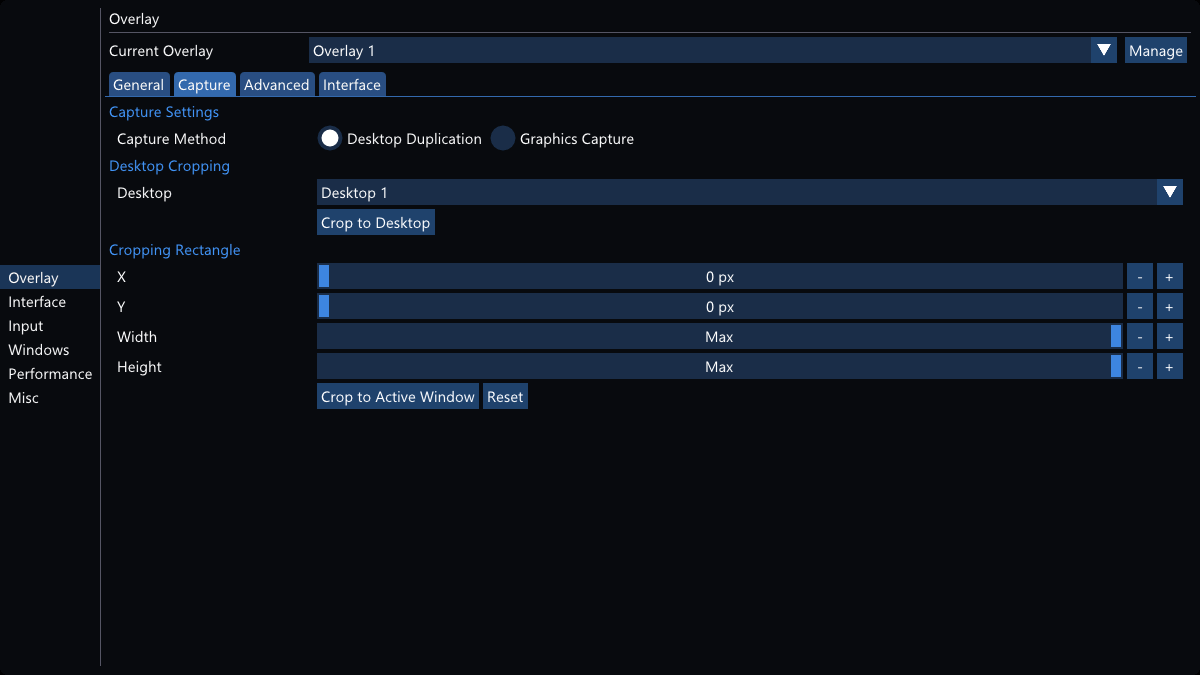
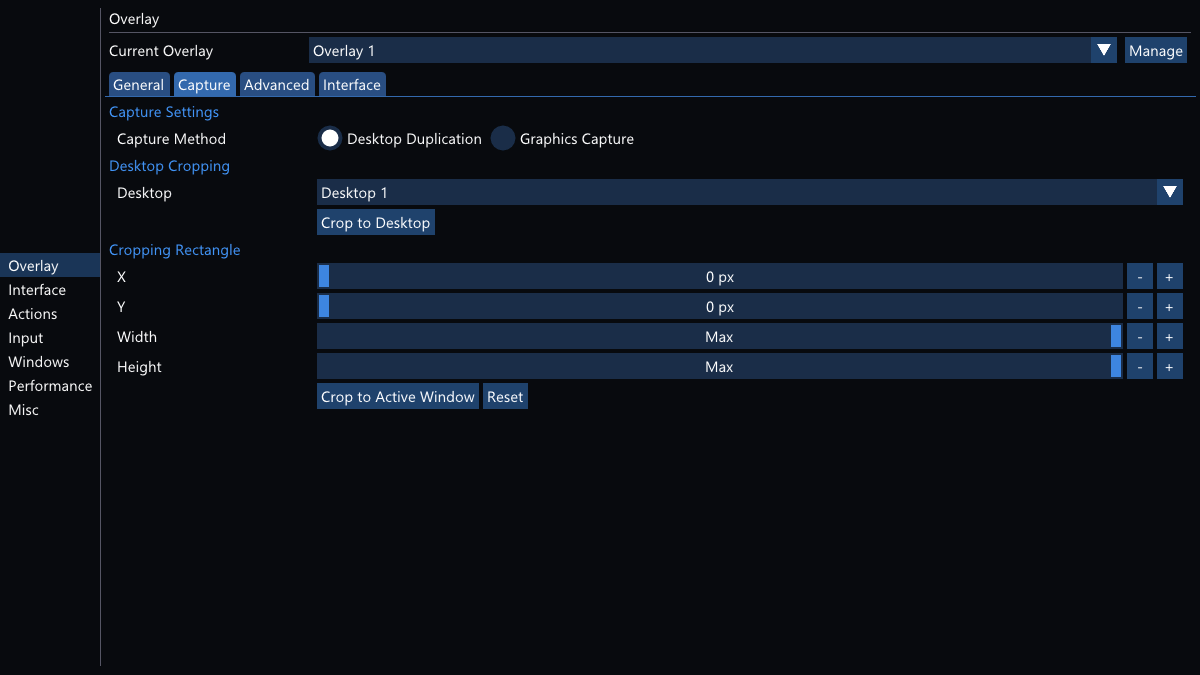
Update documentation, bump version to 2.4

Changed region(s): [[0.0, 0.3733, 0.0925, 0.6222]]

diff --git a/src/DesktopPlusUI/WindowSettings.cpp b/src/DesktopPlusUI/WindowSettings.cpp
@@ -2529,7 +2529,7 @@ void WindowSettings::UpdateCatMisc()
         ImGui::Columns(2, "ColumnVersionInfo", false);
         ImGui::SetColumnWidth(0, column_width_0 * 2.0f);
 
-        ImGui::Text("Desktop+ Version 2.3.5 Beta");
+        ImGui::Text("Desktop+ Version 2.4");
 
         ImGui::Columns(1);
     }

diff --git a/docs/user_guide.md b/docs/user_guide.md
@@ -13,11 +13,12 @@ This guide does not touch upon all topics covered by the [readme file](../assets
       * [Capture](#capture)
       * [Advanced](#advanced)
       * [Interface](#interface-1)
-	* [Interface](#interface-2)
-	* [Input](#input)
-	* [Windows](#windows)
-	* [Performance](#performance)
-	* [Misc](#misc)
+    * [Interface](#interface-2)
+    * [Actions](#actions)
+    * [Input](#input)
+    * [Windows](#windows)
+    * [Performance](#performance)
+    * [Misc](#misc)
 
 * [Performance Considerations](#performance-considerations)
   * [Desktop Duplication](#desktop-duplication)
@@ -27,7 +28,7 @@ This guide does not touch upon all topics covered by the [readme file](../assets
   * [Desktop Duplication](#desktop-duplication-1)
   * [Graphics Capture](#graphics-capture)
     * [Graphics Capture Feature Support](#graphics-capture-feature-support)
-	
+    
 * [Usage Examples](#usage-examples)
 
 ## Interface
@@ -88,9 +89,9 @@ Configures the state of the current overlay. Changes made here do not apply to o
   Click on the drop-down list to select the position origin of the overlay. This can be used to attach an overlay to controllers or the HMD.
   - **Position**:
     - **[Change]**:  
-	Opens the overlay position change pop-up and activates overlay drag-mode. You can use the buttons to do manual position adjustments or simply drag the overlay in the VR space to reposition them. Using right-click to drag triggers a gesture drag, allowing you to rotate and scale overlays based on the motions of both hand-controllers.
-	- **[Reset]**:  
-	Reset the position of the overlay. Depending on the origin the new position will be near the zero point of it or next to the dashboard overlay.
+    Opens the overlay position change pop-up and activates overlay drag-mode. You can use the buttons to do manual position adjustments or simply drag the overlay in the VR space to reposition them. Using right-click to drag triggers a gesture drag, allowing you to rotate and scale overlays based on the motions of both hand-controllers.
+    - **[Reset]**:  
+    Reset the position of the overlay. Depending on the origin the new position will be near the zero point of it or next to the dashboard overlay.
     
 ##### Capture
 
@@ -102,15 +103,15 @@ Configures the state of the current overlay. Changes made here do not apply to o
   - **Source** (Graphics Capture):  
   Click on the drop-down list to select the capture source for the overlay. The list contains available capturable desktops and windows.
     - **[Use Active Window]**:  
-	Select the current foreground window as the capture source.
+    Select the current foreground window as the capture source.
     - **[Use Picker Window]**:  
-	Use the Graphics Capture picker window to select the capture source. This is a fallback option and not present when using Windows 10 version 2004 or newer.
+    Use the Graphics Capture picker window to select the capture source. This is a fallback option and not present when using Windows 10 version 2004 or newer.
     
 - **Desktop Cropping** (Desktop Duplication)
     - **Desktop**:  
-	Click on the drop-down list to select a desktop to crop the combined desktop mirror to. This selection is also used when resetting the cropping rectangle.
+    Click on the drop-down list to select a desktop to crop the combined desktop mirror to. This selection is also used when resetting the cropping rectangle.
     - **[Crop to Desktop]**:  
-	Change the cropping rectangle to match the selected desktop.
+    Change the cropping rectangle to match the selected desktop.
 
 - **Cropping Rectangle**  
 Rectangle the overlay content is cropped to. If the cropping rectangle is larger than the overlay content, it's clamped to the maximum possible area.  
@@ -151,6 +152,9 @@ Gaze Fade gradually fades the overlay to 0% opacity when not looking at it. When
 - **Input**
   - **Enable Input**:  
   Allows input on the overlay. When this is off, the overlay will not react to any laser pointer activity or button inputs. Its Floating UI will also be unavailable.
+  - **Overlay Group**:  
+  Sets the group the overlay belongs to. Overlay groups are used to target overlays in actions and input bindings.  
+  This is currently only used to change the enablement state of multiple overlays at once.
   
 ##### Interface
 
@@ -185,13 +189,13 @@ Gaze Fade gradually fades the overlay to 0% opacity when not looking at it. When
 - **Action Buttons**
   - **(Action Button List)**:  
   Global order and visibility of action buttons on the Action Bar can be customized here. This list can be expanded by creating custom actions.
-  
-#### Input
 
-![Input Settings Page](images/settings_input.png)
+#### Actions
+
+![Actions Settings Page](images/settings_actions.png)
 
 - **Active Controller Buttons**  
-Controller bindings when pointing at a Desktop+ overlay. The actual buttons used for these are defined in the VR Compositor SteamVR input bindings. These bindings do not support being held down, meaning a "Press Keys" Action is pressed and released instantly.
+Controller bindings when pointing at a Desktop+ overlay. The actual buttons used for these are defined in the VR Compositor SteamVR input bindings. These bindings do not support being held down, meaning a "Press Keys" action is pressed and released instantly unless "Toggle Keys" is active for said action.
   - **"Go Home/Back" Action**:  
   Action triggered when pressing the "Go Home" or "Go Back" button. This is typically one of the face buttons on the controller by default. Click the button to change the action.
   
@@ -200,11 +204,22 @@ Controller bindings when the dashboard is closed and not pointing at any overlay
   - **"Global Shortcut 1/2/3" Action**:  
   Action triggered when pressing the respective bound button. These inputs are not bound to anything by default. Click the button to change the action.
   
+- **Global Hotkeys**:  
+System-wide keyboard shortcuts. Hotkeys block other applications from receiving that input and will not work if the same combination has already been registered elsewhere.  
+Desktop+ will not register a hotkey if no action is assigned to it.
+  - **[(Keyboard Shortcut)] Action**:  
+  Action triggered when pressing the respective keyboard shortcut. Click on the left button to change the keyboard shortcut for the hotkey.
+
+  
 - **Custom Actions**  
 Custom actions are user-definable actions which can be bound to controller buttons, the Action Bar or just executed directly from the list. These Actions can press keys, type strings, launch applications or toggle an overlay's enabled state.  
 Custom icons for these actions can be added by putting PNG files in the "images/icons" folder. Recommended size is 96x96 pixels.
   - **(Custom Action List)**:  
   Lists currently configured custom actions. The buttons below the list can be used to manage them.
+  
+#### Input
+
+![Input Settings Page](images/settings_input.png)
   
 - **Mouse**
   - **Render Cursor**:  
@@ -269,6 +284,22 @@ These settings allow tweaking the performance characteristics of Desktop+. Howev
   Mirrors individual desktops instead of cropping from the combined desktop. All Desktop Duplication overlays will be showing the same desktop when this is active.
   There can be a noticeable performance impact when multiple desktops update constantly. This setting can be used to mitigate it.
   
+- **Peformance Monitor**  
+The Performance Monitor lets you quickly check the current state of your system from within VR in real time. Once added as an overlay, it can be customized and positioned like any of the desktop/window ones.  
+While it's possible to create as many overlays of it as desired, they will all be showing the same content. Performance Monitor settings are global.
+  - **Style**:  
+  Switches between a large and compact style of the Performance Monitor. The compact style does not allow displaying frame time graphs and the current time.
+  - **Show (Item)**:  
+  Allows to customize which performance characteristics and states are displayed on the Performance Monitor.
+  - **[View as Pop-Up]**:  
+  Displays the Performance Monitor as a pop-up. This usually only serves as a preview since the VR scene applications will pause and reduce rendering load while the dashboard is open.
+  - **[Add as Overlay]**:  
+  Adds a new Performance Monitor overlay. The overlay will appear on the left hand-controller by default if connected.
+  - **[Reset Cumulative Values]**:  
+  Resets statistics that build up over time, such as average FPS, dropped frames, and reprojection ratio.  
+  These values are also reset automatically when the scene application changes or SteamVR goes into standby mode.
+  
+
 - **Statistics**
   - **VR Compositor CPU Frame Time**:  
   CPU time spent by the VR Compositor on the last rendered VR frame. This is a global SteamVR frame timing value.
@@ -304,16 +335,16 @@ Settings are saved before restarting and are typically restored without loss aft
   - **Desktop+**:  
   These buttons apply to the main Desktop+ process, responsible for the mirror overlays and most interaction with them.
     - **[Restart]**:  
-	Restart Desktop+.
+    Restart Desktop+.
     - **[Enter Elevated mode]**:  
-	Enters elevated mode by launching a secondary Desktop+ process with administrator privileges using the "DesktopPlus Elevated" scheduled task. This button is only visible if elevated mode has been set up.
-	
+    Enters elevated mode by launching a secondary Desktop+ process with administrator privileges using the "DesktopPlus Elevated" scheduled task. This button is only visible if elevated mode has been set up.
+    
   - **Desktop+ UI**:  
   These buttons apply to the Desktop+ UI process, responsible for displaying UI elements and modifying settings.
     - **[Restart]**:  
-	Restart Desktop+ UI.
-	- **[Restart in Desktop Mode]**:  
-	Restart Desktop+ UI in desktop mode. The settings window will display on the desktop and all VR interface elements will be unavailable.
+    Restart Desktop+ UI.
+    - **[Restart in Desktop Mode]**:  
+    Restart Desktop+ UI in desktop mode. The settings window will display on the desktop and all VR interface elements will be unavailable.
 
 ## Performance Considerations
 

diff --git a/README.md b/README.md
@@ -13,11 +13,12 @@ Advanced desktop access for OpenVR.
 - Overlay cropping
 - 3D support (SBS, HSBS, OU, HOU)
 - Overlay visibility and origin settings: Display a desktop/window during gameplay or attach it to a different origin (play space, dashboard, HMD, controllers, tracker)
-- Actions: User-definable functions (input simulation, running applications) which can be bound to controller or UI buttons
+- Actions: User-definable functions (input simulation, running applications) which can be bound to controller inputs, hotkeys or UI buttons
 - Keyboard Extension, enabling use of modifier, arrow and function keys from the SteamVR keyboard
 - Elevated access toggle, making it possible to deal with UAC prompts and other UIP-restricted UI in VR without using full admin-access at all times
 - Gaze Fade: Fade-out overlay when not looking at it
 - Window Management: Change window focus depending on overlay/dashboard state or drag overlays when dragging the title bar of a mirrored window
+- Performance Monitor: View system performance in real time
 
 ## Usage
 
